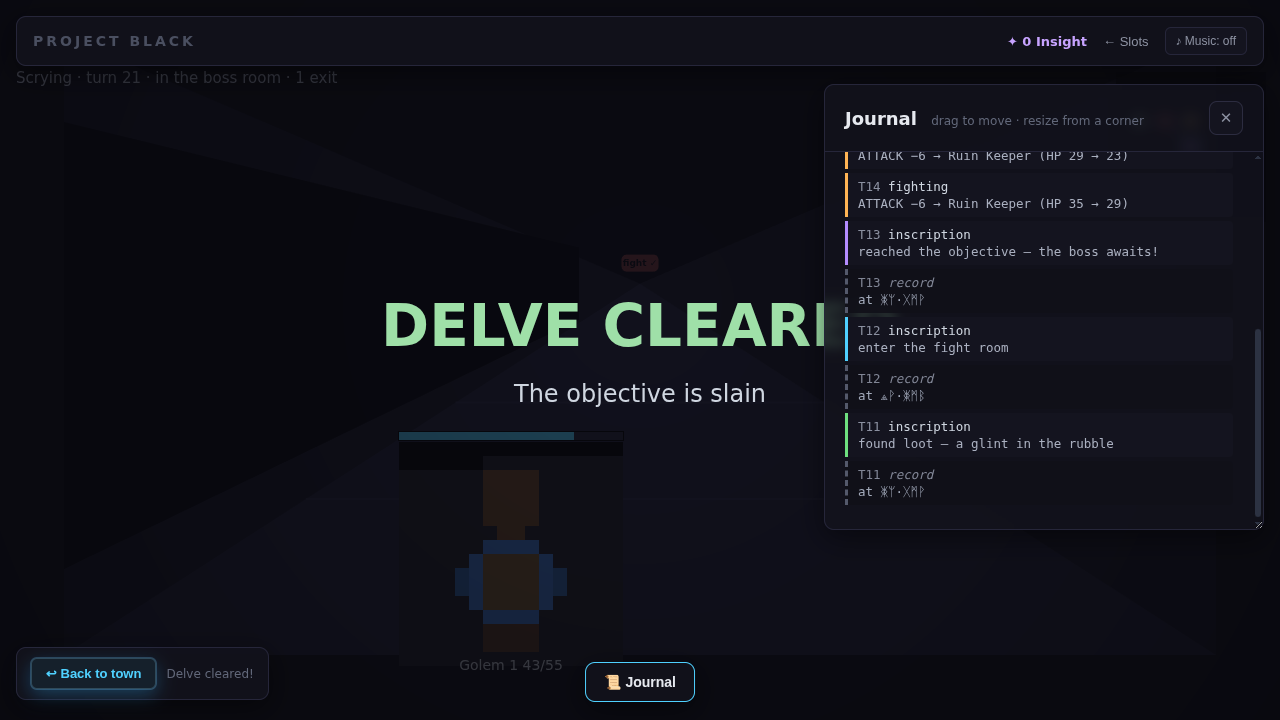
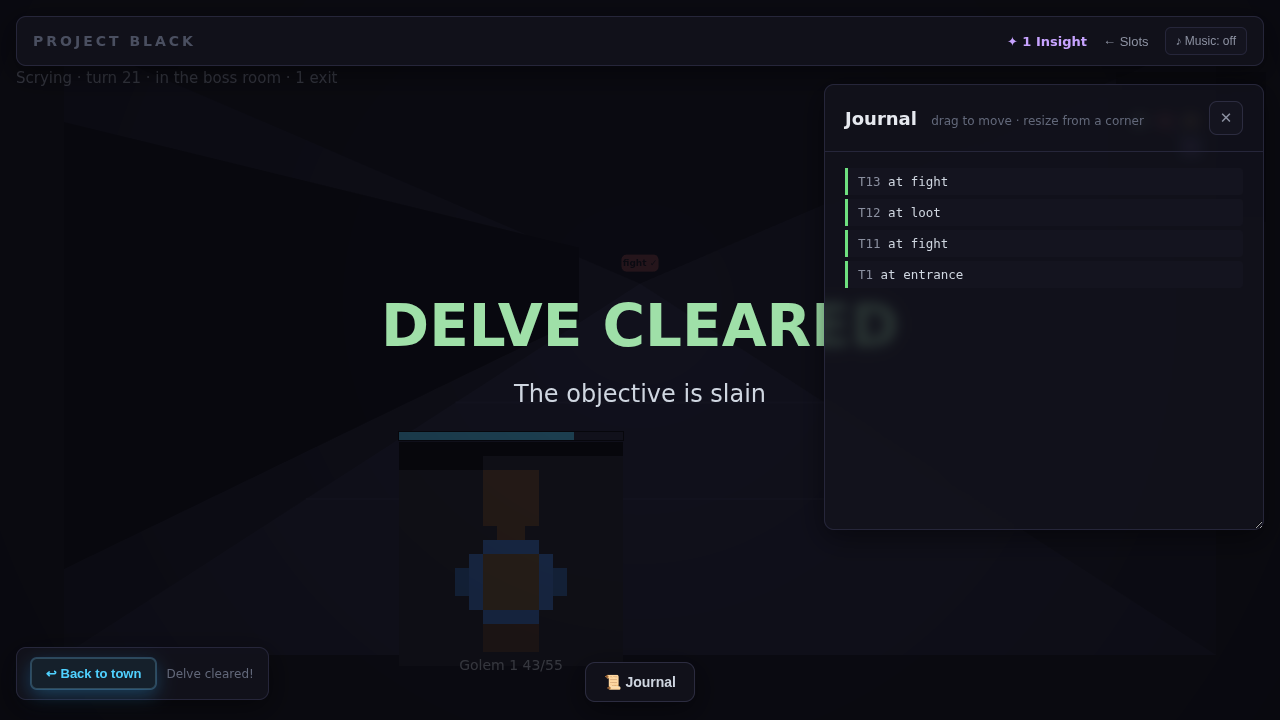
feat(journal): the journal is record()-only — the engrams' voice
The journal now shows ONLY a brain's `record(...)` lines, not the engine's own
narration (room entry / fights / loot / outcome). It's the golems' voice: you see
what you told them to log, nothing more.

- main.ts renderLog: filter to `note` entries; drop LOG_CLASS; an empty-state hint
  ("call record(…) to log what your golems sense"). Engine entries still live in
  delve.log (data preserved; the scrying view + end-screen convey the delve), just
  not in the journal.
- style.css: the note entry is now the journal's primary style (legible monospace,
  green accent), plus the .log-empty hint.
- migrate.ts: the default exploration template seeds one `record("at", room.type)`
  so a fresh delve's journal traces navigation (the old "enter the X room") and the
  idiom is visible from the start — runs under the minimal (no-unlock) language.

Equivalence: navigation narration is fully reconstructible from `senses`
(`room.type` / `is_objective` / `cleared`, the exits); combat state per turn via
`me`/`senses.enemies`. Inherent gap: a reactive per-turn policy can't see an
action's *resolved* damage (record fires before it resolves) — HP snapshots stand
in. Not-yet-exposed: trap-fired + specific buff/loot labels (candidate hooks).

Test: the seeded default records under the minimal language (no unlocks).
In-app: a fresh golem's journal shows only "at entrance/fight/loot/…" — no engine
lines (docs/progress/record-journal-notes.png).

diff --git a/src/lang/explore.test.ts b/src/lang/explore.test.ts
@@ -5,6 +5,7 @@ import {
 } from '../delve'
 import { decideExplorationFromProgram } from './explore'
 import { decideCombatFromProgram } from './combat'
+import { explorationTemplate } from './migrate'
 import { makeWarrior, makeHealer, makeGolem, setProgramDecider, ProgramError } from '../sim'
 import { setUnlocked } from './gate'
 import { LEVELS } from '../levels'
@@ -107,6 +108,21 @@ describe('exploration program navigator', () => {
     // stepping folds the recorded line into the journal as a `note` entry
     const after = stepDelve(s)
     expect(after.log.some((e) => e.kind === 'note' && e.detail.startsWith('at '))).toBe(true)
+  })
+
+  it('the default exploration template records to the journal under the MINIMAL language', () => {
+    // a brand-new profile has NO unlocks; the seeded `record(...)` must still run (it's
+    // ungated) so a fresh delve's journal isn't empty.
+    setUnlocked([])
+    try {
+      const stats = { might: 7, ward: 1, fortitude: 10, attunement: 0, poise: 0, celerity: 3 }
+      const g = makeGolem({ id: 'hero-1', name: 'Solo', stats, procedure: [], program: 'Engram.combat_turn:\n    return attack(senses.enemies.lowest_hp)\n' })
+      let s = startDelve([g], 3, undefined, LEVELS[0], explorationTemplate())
+      s = stepDelve(s) // first exploration turn → record("at", <room type>)
+      expect(s.log.some((e) => e.kind === 'note' && e.detail.startsWith('at '))).toBe(true)
+    } finally {
+      setUnlocked(['lang-if', 'lang-loops', 'lang-comprehensions', 'lang-def', 'lang-import', 'skill-mend'])
+    }
   })
 
   it('a combat brain’s record(...) lands in the delve journal (combat path)', () => {

diff --git a/src/main.ts b/src/main.ts
@@ -1144,16 +1144,19 @@ function renderExEditor(): void {
   renderEngramLoaders()
 }
 
-// Map a delve-log kind to one of the existing log-entry colour classes.
-const LOG_CLASS: Record<string, string> = { explore: 'defend', enter: 'flee', combat: 'attack', clear: 'heal', end: 'counter', boon: 'heal', note: 'note' }
-
+// The journal is the GOLEMS' VOICE: it shows ONLY what an engram logged via
+// `record(...)` (kind 'note'), never the engine's own narration. The engine entries
+// still live in `delve.log` (and the scrying view + end-screen convey the delve
+// visually) — they're just not the journal. Empty until a brain records something.
 function renderLog(): void {
-  const entries = (delve?.log ?? lastDelveLog).slice(-14).reverse()
+  const entries = (delve?.log ?? lastDelveLog).filter((e) => e.kind === 'note').slice(-40).reverse()
+  if (entries.length === 0) {
+    logEl.innerHTML =
+      '<p class="log-empty">Nothing recorded yet. Call <code>record(…)</code> in an engram to log what your golems sense — your lines show up here.</p>'
+    return
+  }
   logEl.innerHTML = entries
-    .map(
-      (e) =>
-        `<div class="entry ${LOG_CLASS[e.kind] ?? 'defend'}"><span class="turn">T${e.turn}</span> <span class="rule">${esc(e.reason)}</span><div class="detail">${esc(e.detail)}</div></div>`,
-    )
+    .map((e) => `<div class="entry note"><span class="turn">T${e.turn}</span> <span class="rec">${esc(e.detail)}</span></div>`)
     .join('')
 }
 

diff --git a/src/style.css b/src/style.css
@@ -802,22 +802,28 @@ canvas {
   color: #ff6b6b;
 }
 
-/* `record(...)` debug lines from a golem's brain — a muted, console-like entry. */
+/* The journal is record()-only — a golem's own logged lines (the engrams' voice). */
 .entry.note {
-  border-left-color: #5a6072;
-  border-left-style: dashed;
-  background: #101018;
-  opacity: 0.92;
+  border-left-color: #6ee07f;
 }
 
-.entry.note .rule {
-  color: #8b90a0;
-  font-style: italic;
-}
-
-.entry.note .detail {
+.entry.note .rec {
   font-family: ui-monospace, "SF Mono", "Cascadia Code", Menlo, monospace;
-  color: #aeb6c7;
+  color: #cfd6e0;
+  word-break: break-word;
+}
+
+.log-empty {
+  color: #8b90a0;
+  font-size: 13px;
+  line-height: 1.5;
+  margin: 0;
+  padding: 4px 2px;
+}
+
+.log-empty code {
+  font-family: ui-monospace, "SF Mono", "Cascadia Code", Menlo, monospace;
+  color: #6ee07f;
 }
 
 .entry .turn {

diff --git a/src/lang/migrate.ts b/src/lang/migrate.ts
@@ -69,6 +69,13 @@ export function toEntryForm(src: string): string {
  *  starting point when moving the party's delve navigation to code. */
 export function explorationTemplate(): string {
   // No-branch default so it runs under the minimal (no-`if`) language: explore the frontier,
-  // withdraw when done. `if`/`Memory` unlock smarter navigation later.
-  return ['Engram.exploration_turn:', '    return explore()', ''].join('\n')
+  // withdraw when done. `if`/`Memory` unlock smarter navigation later. The `record(...)`
+  // line seeds the journal (the golems' voice) — it logs the room type each turn, so a
+  // fresh delve's journal isn't empty and the idiom is visible from the start.
+  return [
+    'Engram.exploration_turn:',
+    '    record("at", senses.room.type)  # your record(...) lines fill the journal',
+    '    return explore()',
+    '',
+  ].join('\n')
 }
